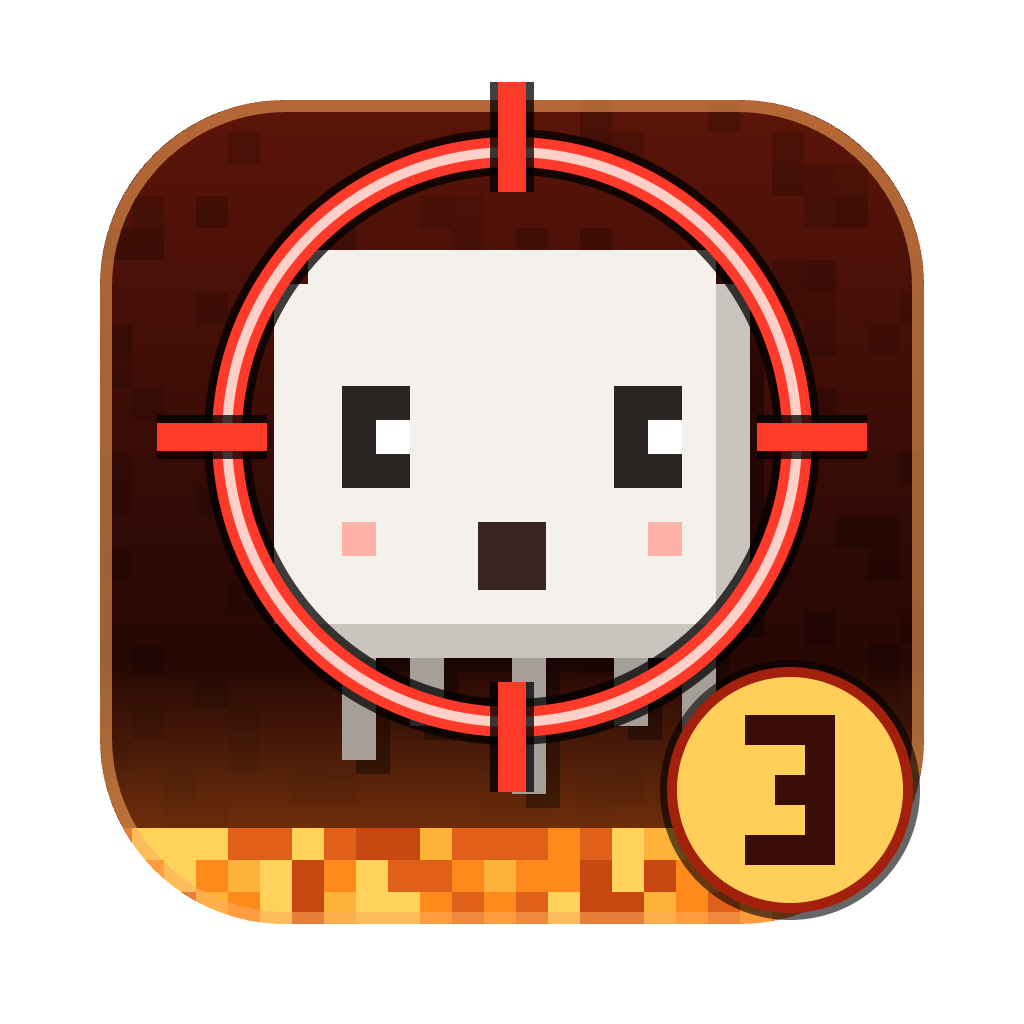
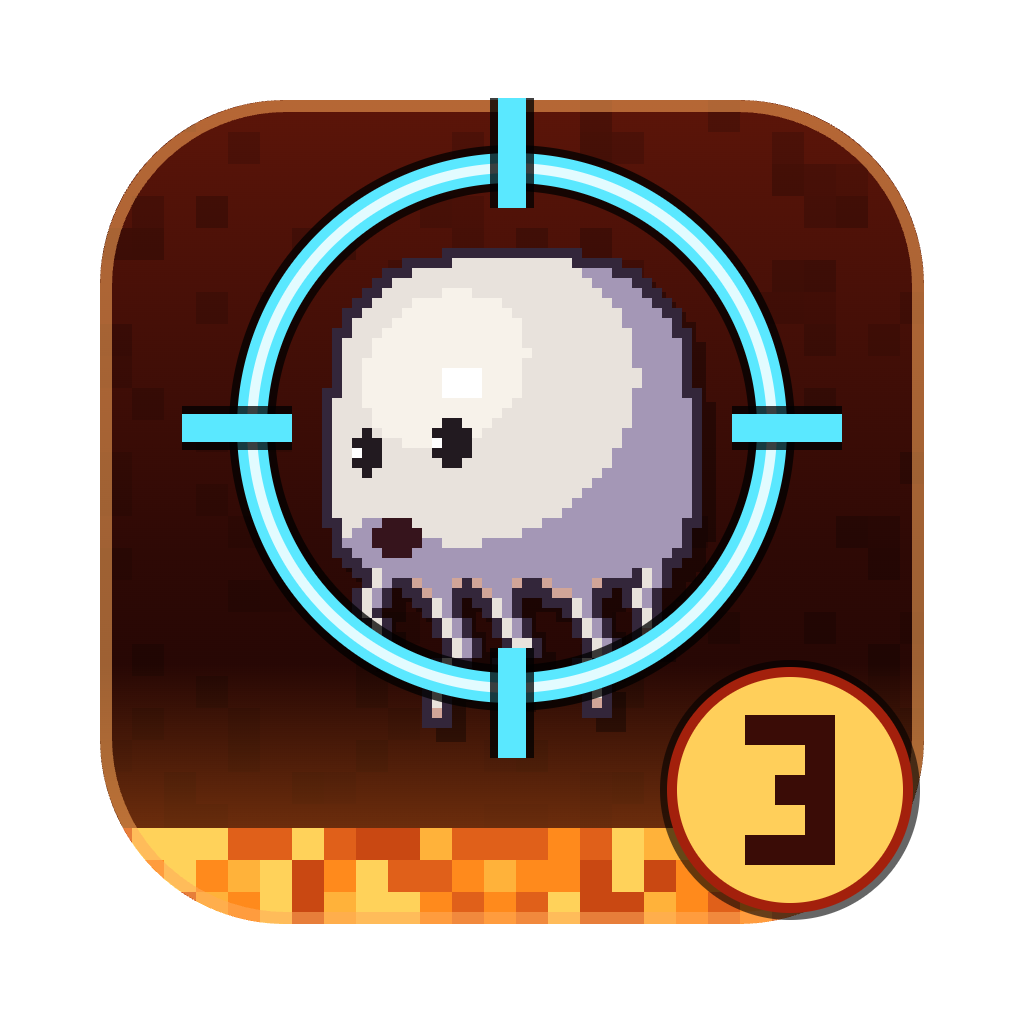
feat: v3 3.3.0 — 새 앱 아이콘 (게임 속 보통 가스트·하늘색 조준경)
- desktop/icon.png: ghast-art.js 보통 가스트(40×50, 한 칸 10px)를 하늘색 조준경(1P 색, 반지름 260)이 감쌈 + '3' 배지
  조준경은 다리를 뺀 몸통 가운데, 몸통 외곽선과 원 사이 최소 15px (덮지 않게)
- 가스트 사격 2(v2.3.0)는 예전 v3 아이콘 그림 + '2' 배지 → 두 앱이 한눈에 구분
- 게임·판정 그대로, 테스트 171개

Changed region(s): [[0.1562, 0.0625, 0.8438, 0.8125]]

diff --git a/README.md b/README.md
@@ -1,9 +1,12 @@
 # 🔥 가스트 사격 (Ghast Shooting)
 
-> **🧪 v3 (다음 버전, 시험 중)** — 다음 버전 3.x 를 시험하고 있습니다(지금 3.2.2 — 버전 규칙은 아래 '버전 규칙'). 지금 운영 중인 **v2.2.11 은 그대로** 둡니다.
+> **🧪 v3 (다음 버전, 시험 중)** — 다음 버전 3.x 를 시험하고 있습니다(지금 3.3.0 — 버전 규칙은 아래 '버전 규칙'). 지금 운영 중인 **v2.2.11 은 그대로** 둡니다.
 > - 앱 이름이 따로입니다: **가스트 사격 3** (맥은 `Ghast Shooting 3.app`). v2.2.7(**가스트 사격** / `Ghast Shooting.app`) 옆에 따로 설치되어 둘 다 쓸 수 있습니다.
 > - 설정·명단·총 보정도 따로 저장됩니다 (`가스트 사격 3` 폴더). 처음 켜면 **명단 CSV 를 한 번 다시 불러오고, 총 보정을 한 번 다시** 하세요.
 > - 온라인(브라우저) 버전과 랭킹 서버는 아직 바뀌지 않았습니다.
+
+### v3.3.0 바뀐 점
+- **새 앱 아이콘**: 게임 속 보통 가스트(자체 픽셀 그림)를 하늘색 조준경(게임 속 1P 조준점 색)이 감싸는 그림 + '3' 배지. 조준경은 다리를 뺀 몸통 가운데에 있고 몸통 외곽선을 덮지 않습니다. 가스트 사격 2(v2.3.0)는 예전 v3 아이콘 그림에 '2' 배지(빨간 조준경)라 두 앱이 한눈에 구분됩니다. 게임 화면·판정은 그대로입니다.
 
 ### v3.2.2 바뀐 점
 - **실기용 기록 파일**(앱만, 화면은 그대로): 앱을 켜고 게임을 하면 설정 폴더의 `logs/play-YYYY-MM-DD.log` 에 한 줄씩 남깁니다. 맥은 `~/Library/Application Support/가스트 사격 3/logs/`, 윈도우는 `%APPDATA%\가스트 사격 3\logs\`.
